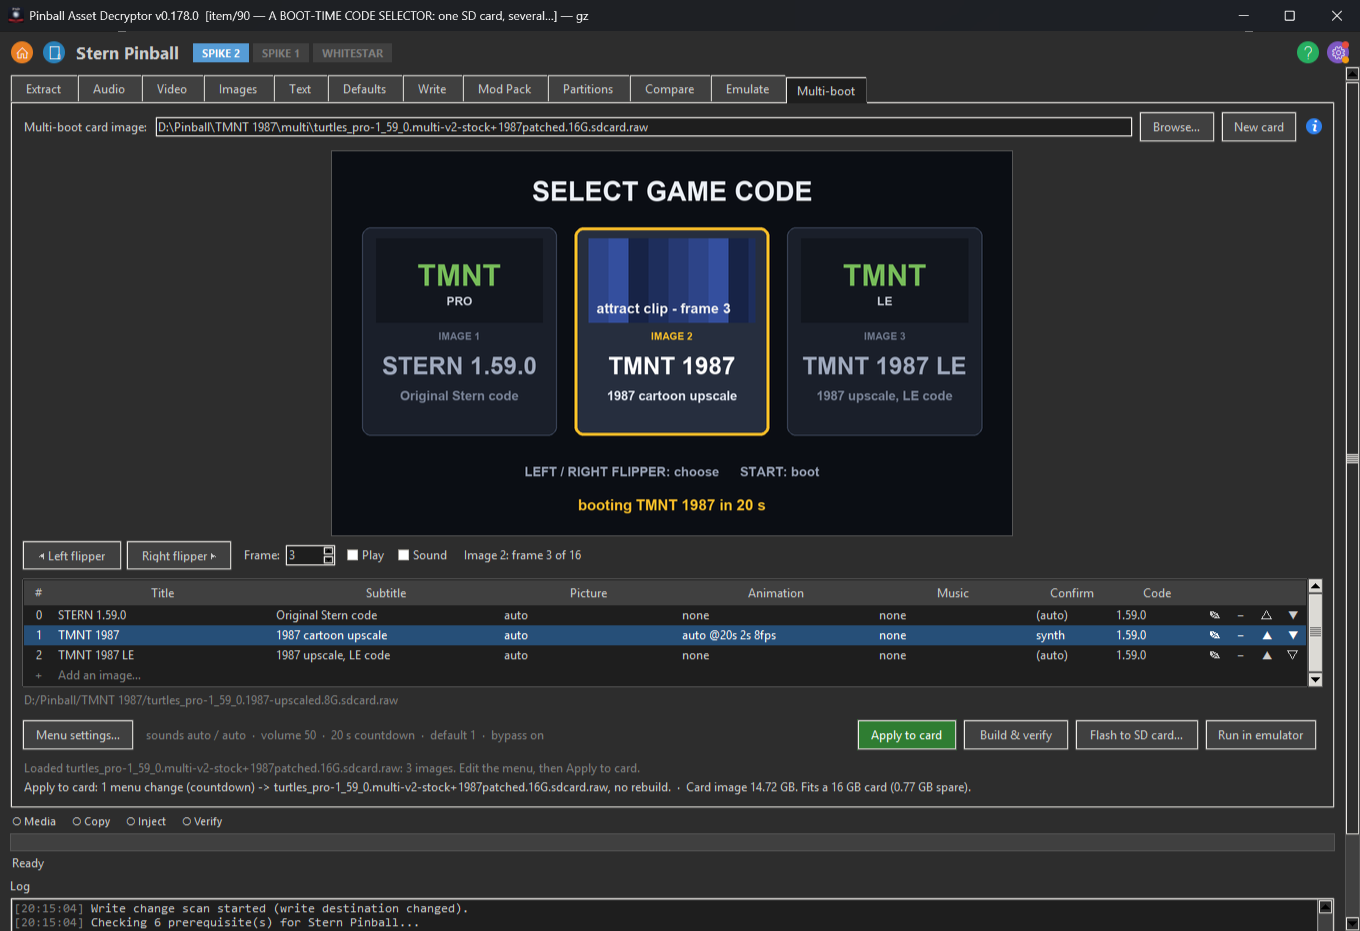
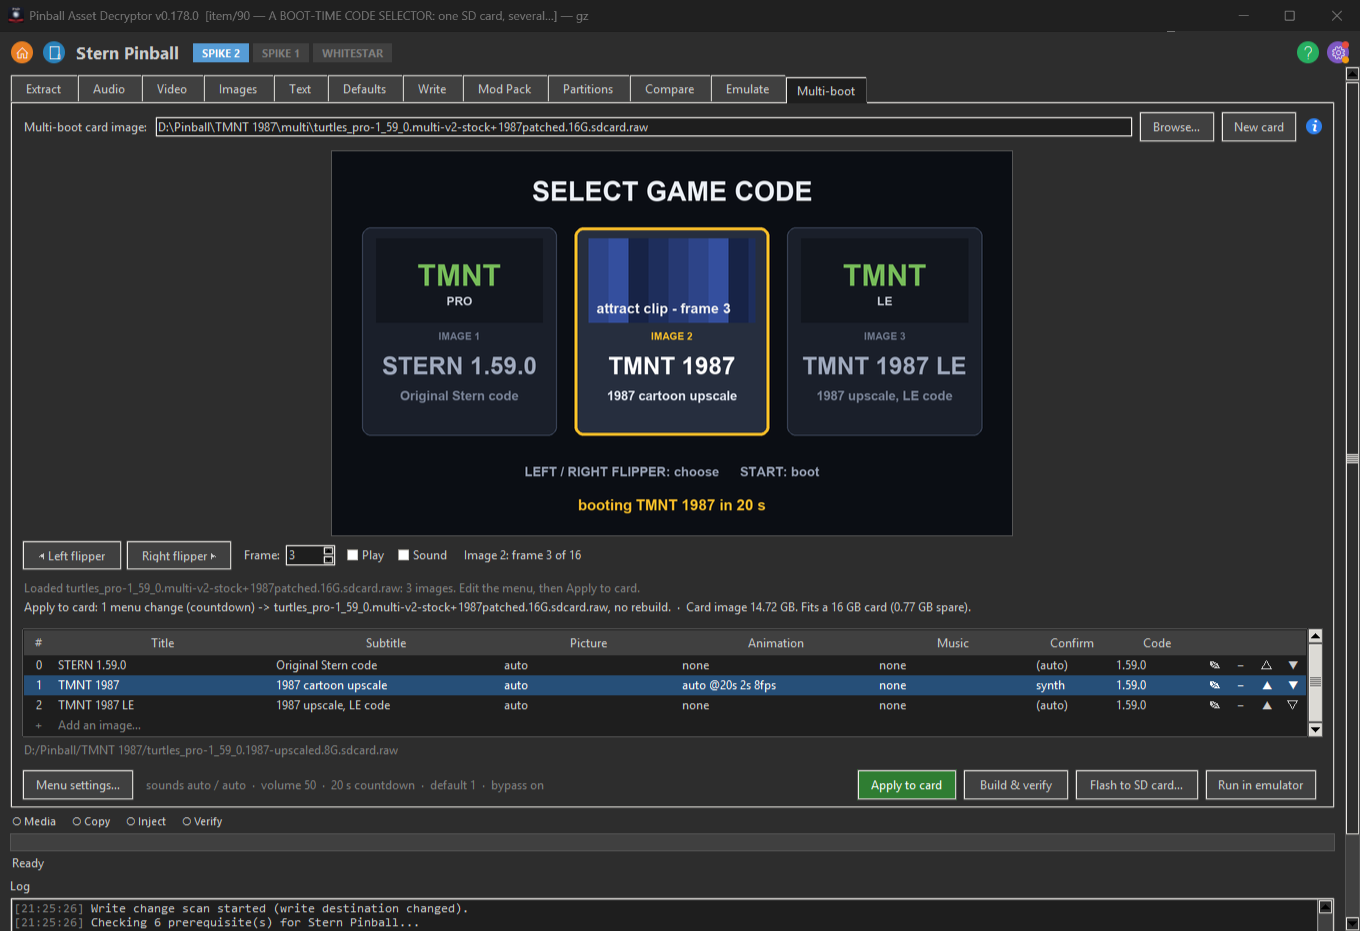
Item 90: the tab's own words go above the images they point at
David, looking at an empty tab: "this text should be above the table of
images". The two lines said "A new card: add the primary (stock) image
and one more" and "No card yet. Add the images below - the path fills
itself in from the first one" - and they were printed UNDERNEATH the
images they were pointing at, at the foot of the tab.

So the status block moves up, between the preview and the table. Both of
its lines are about the table: one is what the tab is doing or what is
wrong, the other is what the writing buttons would do about the list
below it. Guidance that names a direction has to be on the right side of
the thing it names.

The reading order is now the one the tab was rebuilt around: point at a
card, look at the boot screen, read what state it is in, edit the images,
then write. A test pins it, because this is the kind of thing a later
refactor moves back without noticing.

The consequence I am less sure of, and worth a look: "Apply to card: 1
menu change (countdown)... Card image 14.72 GB" now sits above the table
rather than beside the buttons it describes. It reads fine to me under
the picture, but if it wants to be back down by the buttons that is one
line to move.

Verified: 319 tests here, the width sweep still holds the tab at 640 px
from 840 to 1360 px, lint unchanged.

diff --git a/tests/test_multiboot_tab.py b/tests/test_multiboot_tab.py
@@ -5574,3 +5574,21 @@ def test_a_restored_card_that_is_gone_is_not_read(tmp_path, monkeypatch):
         assert panel._pending_read is False
     finally:
         root.destroy()
+
+
+def test_what_the_tab_says_sits_above_the_images_it_talks_about(tmp_path):
+    """An empty tab's own words are "add the images below - the path fills
+    itself in from the first one", and they used to be printed UNDERNEATH
+    the images they pointed at (David: "this text should be above the table
+    of images").  Guidance that names a direction has to be on the right
+    side of the thing it names."""
+    root, panel = _panel()
+    try:
+        order = [str(w) for w in panel._outer.pack_slaves()]
+        assert order.index(str(panel._status_wrap)) <             order.index(str(panel._table_box))
+        # ...and the sentence really does point downwards from there
+        assert "below" in panel._edit_lbl.cget("text")
+        # the actions stay at the foot, after the table
+        assert order.index(str(panel._table_box)) <             order.index(str(panel._action_row))
+    finally:
+        root.destroy()

diff --git a/pinball_decryptor/gui/multiboot_tab.py b/pinball_decryptor/gui/multiboot_tab.py
@@ -2882,9 +2882,16 @@ class MultibootPanel:
         self._build_source(outer, th)
         self._build_alarm(outer, th)
         self._build_preview(outer, th)
+        # THE STATUS SITS ABOVE THE TABLE, not at the foot of the tab
+        # (David, looking at an empty one: "this text should be above the
+        # table of images").  Both of its lines talk ABOUT the table - an
+        # empty tab's two say "add the images below - the path fills itself
+        # in from the first one", which was printed underneath the images it
+        # was pointing at - and guidance that names a direction has to be on
+        # the right side of the thing it names.
+        self._build_status(outer, th)
         self._build_table(outer, th)
         self._build_actions(outer, th)
-        self._build_status(outer, th)
         frame.bind("<Destroy>", self._on_destroy, add="+")
         outer.bind("<Configure>", self._on_configure, add="+")
         # ...and the two moments a person comes BACK to this row expecting it
